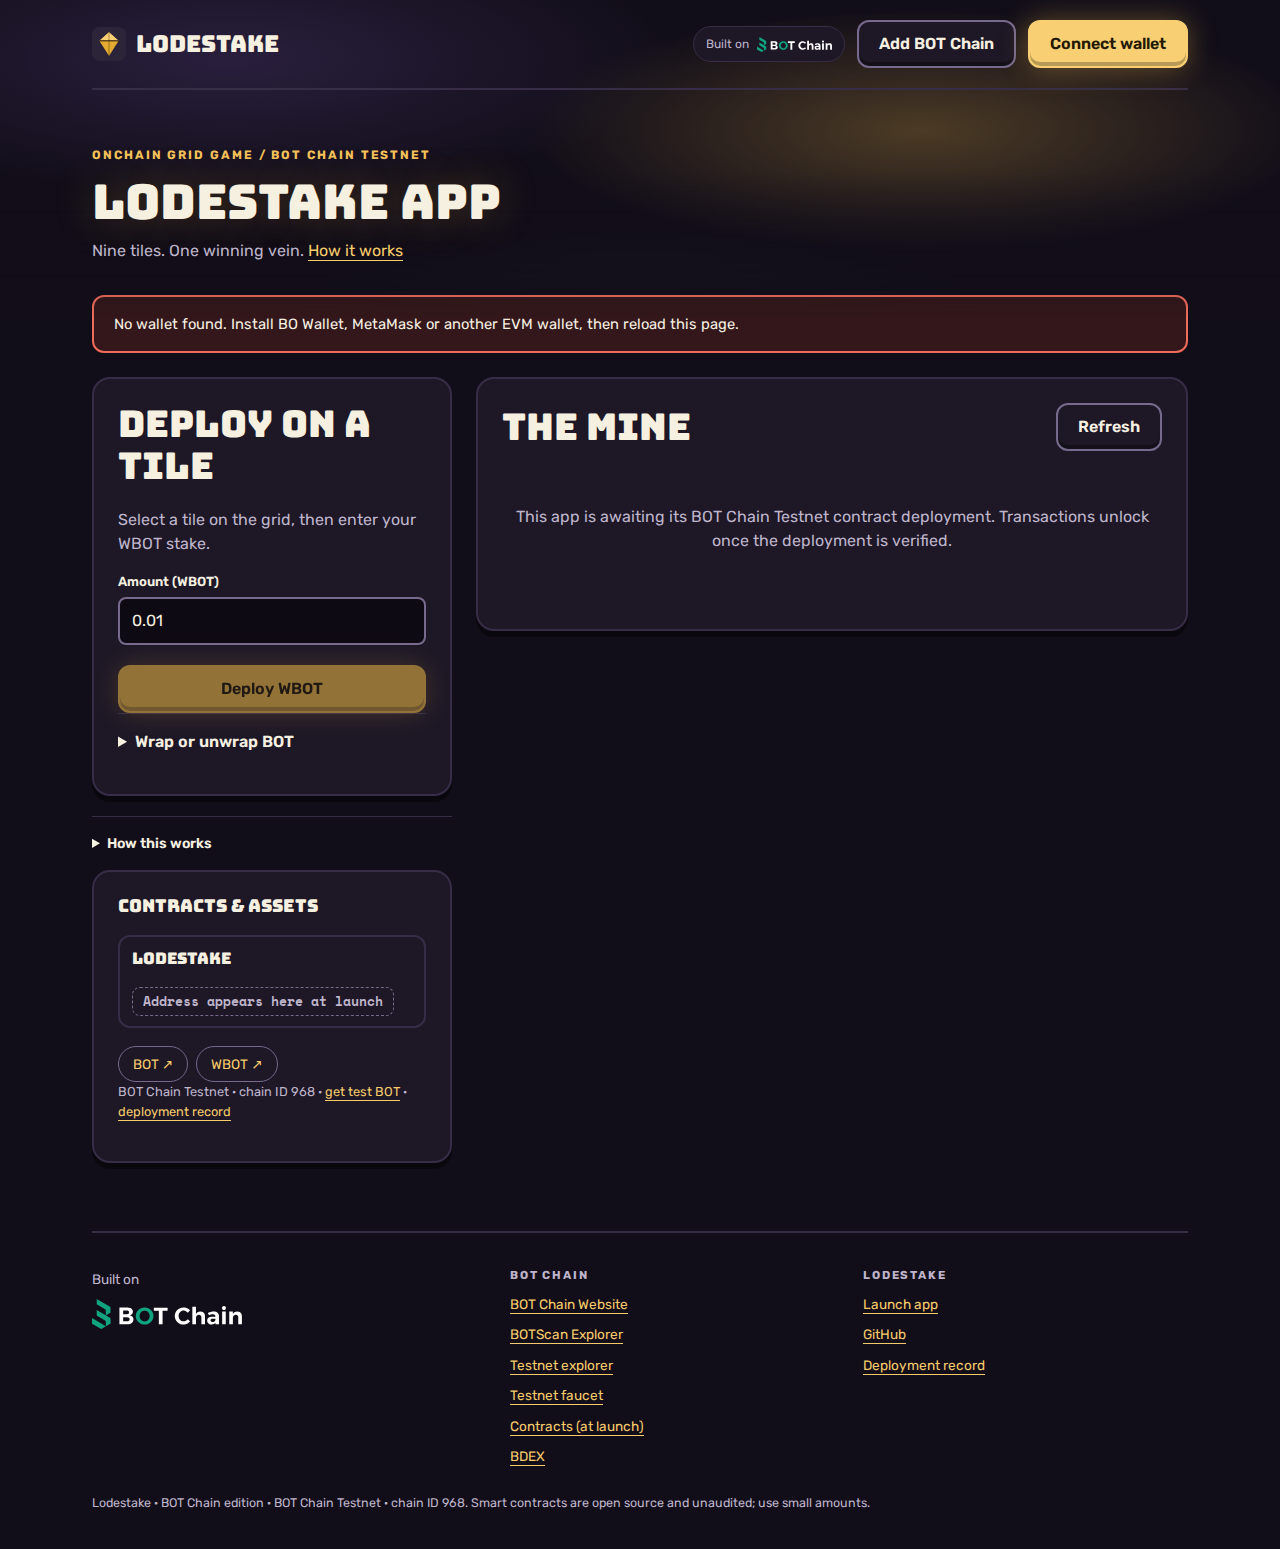
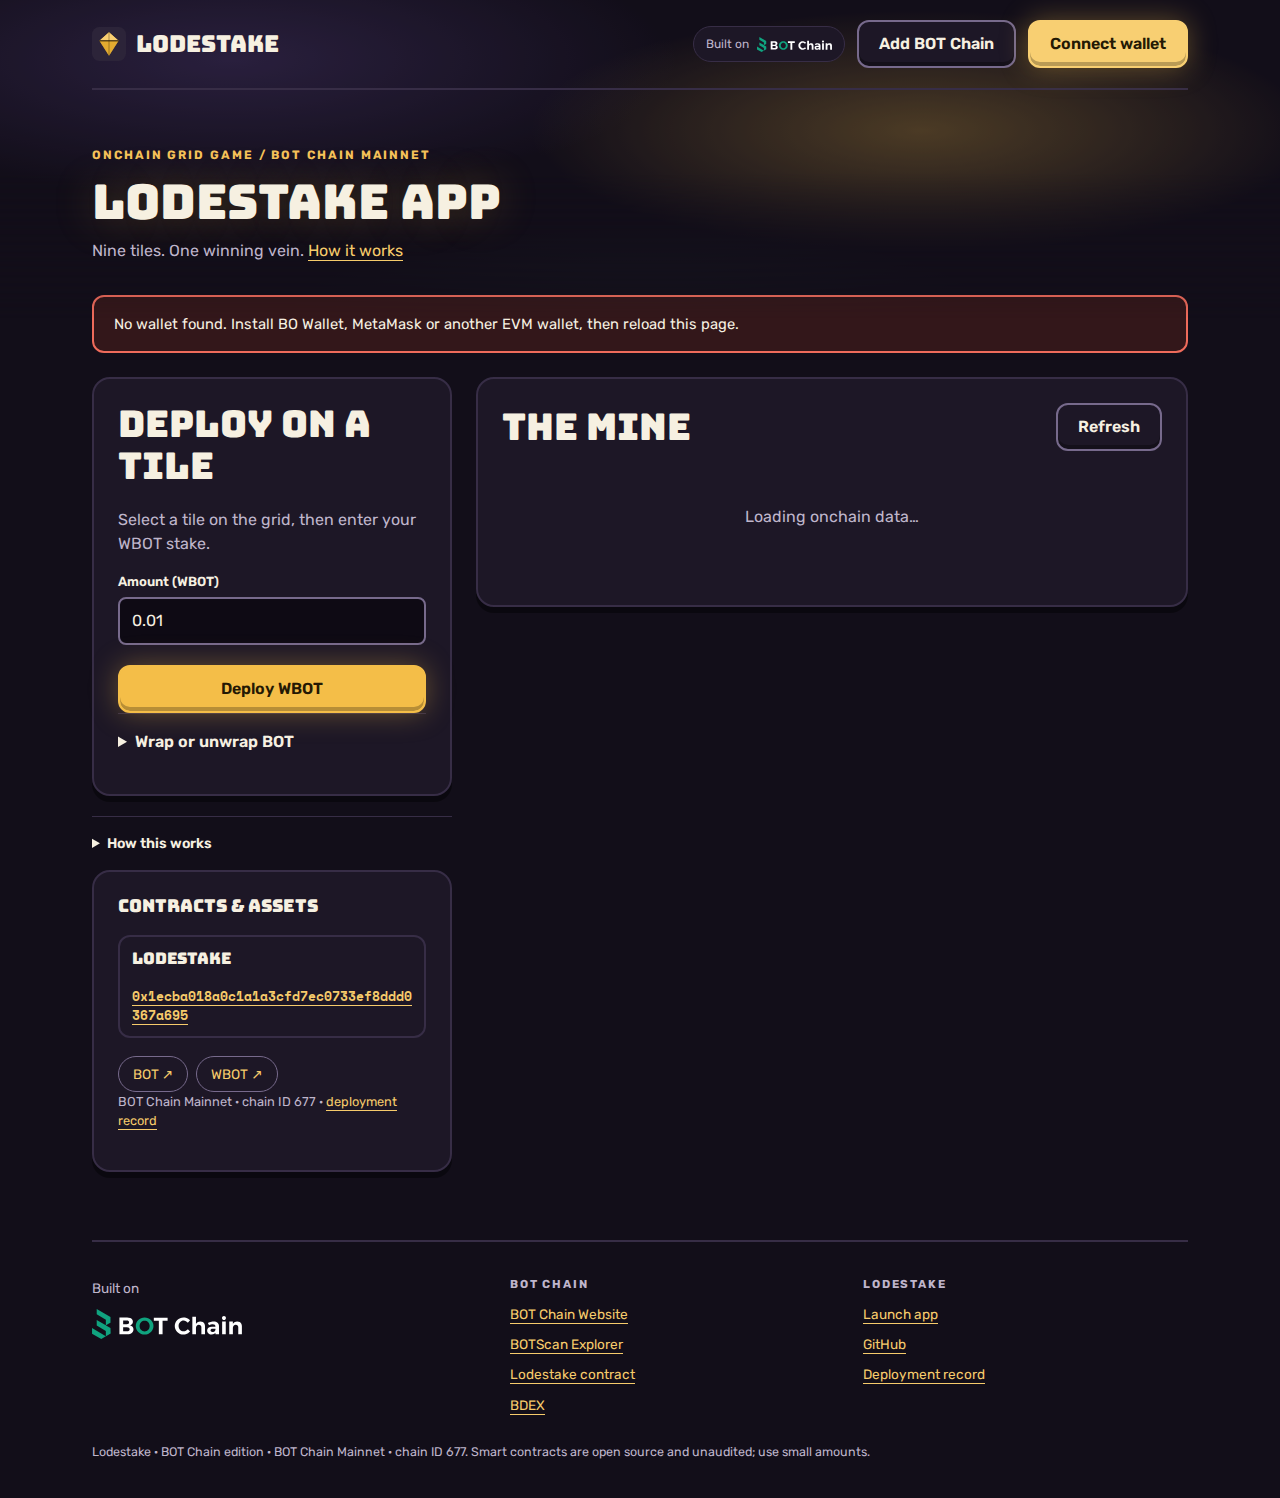
Officially launched on BOT Chain Mainnet

diff --git a/README.md b/README.md
@@ -2,7 +2,7 @@
 
 **Nine tiles. One winning vein.** A pooled grid game using WBOT. Play a tile, settle the round, and claim your payout.
 
-**Status:** contracts are tested on a BOT Chain mainnet fork; the mainnet deployment is pending.
+**Officially launched on BOT Chain Mainnet** on 2026-10-22.
 
 - Website and app: https://lodestake.vercel.app (app at [`/app/`](https://lodestake.vercel.app/app/))
 - Network: BOT Chain mainnet, chain ID 677 · [BOT Chain](https://www.botchain.ai/) · [BOTScan](https://scan.botchain.ai/)
@@ -26,9 +26,9 @@
 
 | Contract | BOT Chain mainnet |
 |---|---|
-| `Lodestake` | Pending mainnet deployment |
+| `Lodestake` | [`0x1ecba018a0c1a1a3cfd7ec0733ef8ddd0367a695`](https://scan.botchain.ai/address/0x1ecba018a0c1a1a3cfd7ec0733ef8ddd0367a695) |
 
-BOT Chain infrastructure used: USDT `0x75edC9335175Fc0552D51D48439F229c10420fe3`, WBOT `0xD5452816194a3784dBa983426cCe7c122F4abd30`, BDEX router `0x07032d47A1b9f8460cBeE9dC17c1d3E438693929`, BDEX QuoterV2 `0x034A705b36067cff99ABf5C662Be881cBd8d0176`.
+BOT Chain infrastructure used: USDT `0xaBabc7Ddc03e501d190C676BF3d92ef0e6e87a3C`, WBOT `0xD5452816194a3784dBa983426cCe7c122F4abd30`, BDEX router `0x07032d47A1b9f8460cBeE9dC17c1d3E438693929`, BDEX QuoterV2 `0x034A705b36067cff99ABf5C662Be881cBd8d0176`.
 
 Source: [`contracts/src`](contracts/src). Tests: [`contracts/test`](contracts/test). The contracts are unaudited; use small amounts.
 
